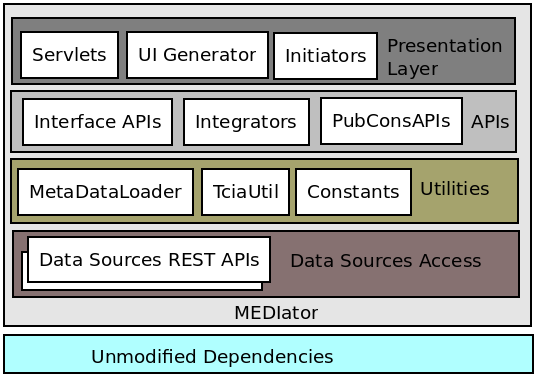
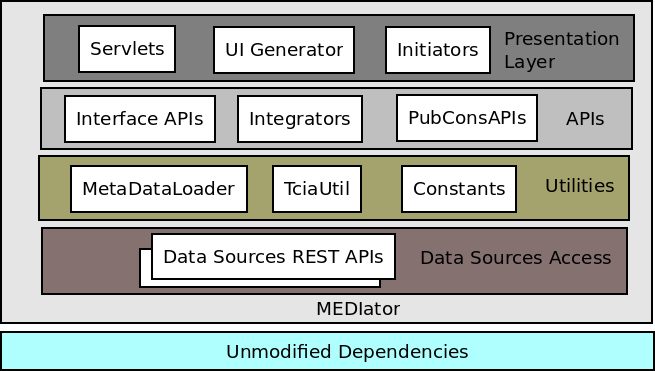
improving EMBC submission

diff --git a/documentation/IEEE/gsoc2014.tex b/documentation/IEEE/gsoc2014.tex
@@ -49,7 +49,7 @@
 
 
 \title{\LARGE \bf
-	\textit{MEDIator}: A Data Sharing and Synchronization Platform for Heterogeneous Medical Image Archives}
+	\textit{MEDIator}: A Data Sharing Synchronization Platform for Heterogeneous Medical Image Archives}
 
 
 \author{Pradeeban Kathiravelu$^{1}$ and Ashish Sharma$^{2}$% <-this % stops a space
@@ -187,8 +187,8 @@ Data sources access layer consists of means of accessing the data sources, such 
 	\vspace{-13pt}
 	\begin{figure}[ht]
 		\begin{center}
-			\resizebox{0.6\columnwidth}{!}{
-				\includegraphics[width=0.6\textwidth]{arch.png}
+			\resizebox{0.85\columnwidth}{!}{
+				\includegraphics[width=0.85\textwidth]{arch.png}
 			}
 		\end{center}
 		\vspace{-17pt}
